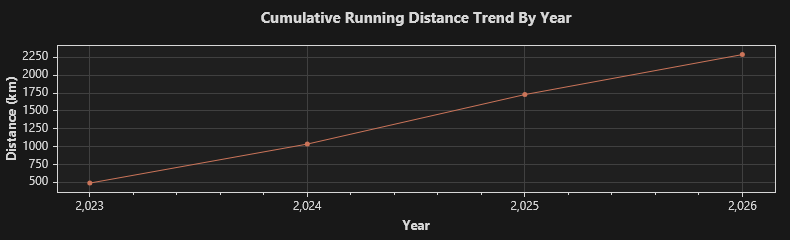
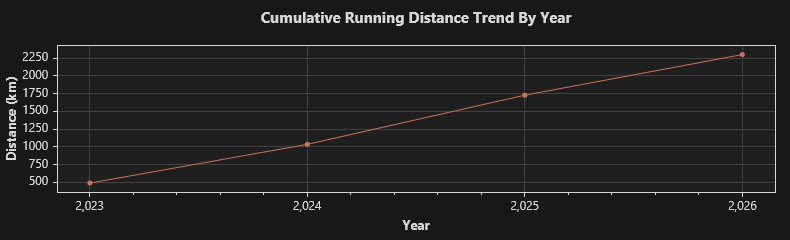
2026/10/10 跑步 6.13 公里

diff --git a/trend.md b/trend.md
@@ -1,4 +1,4 @@
-### Total: 388 days, 2288.1700000000000727595761418 km.
+### Total: 390 days, 2300.4499999999998181010596454 km.
 
 
 ![Monthly](https://github.com/prime167/MyRunningLog/blob/main/data/CumulativeTrendByMonth.png)
